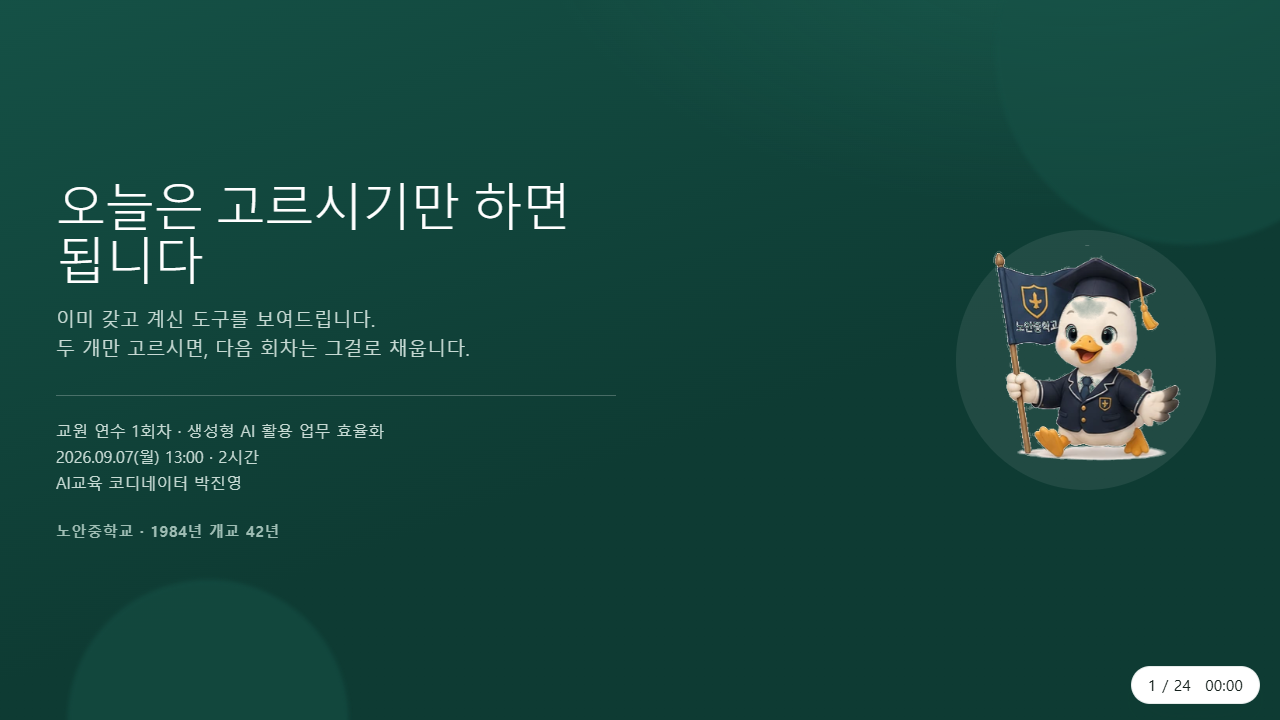
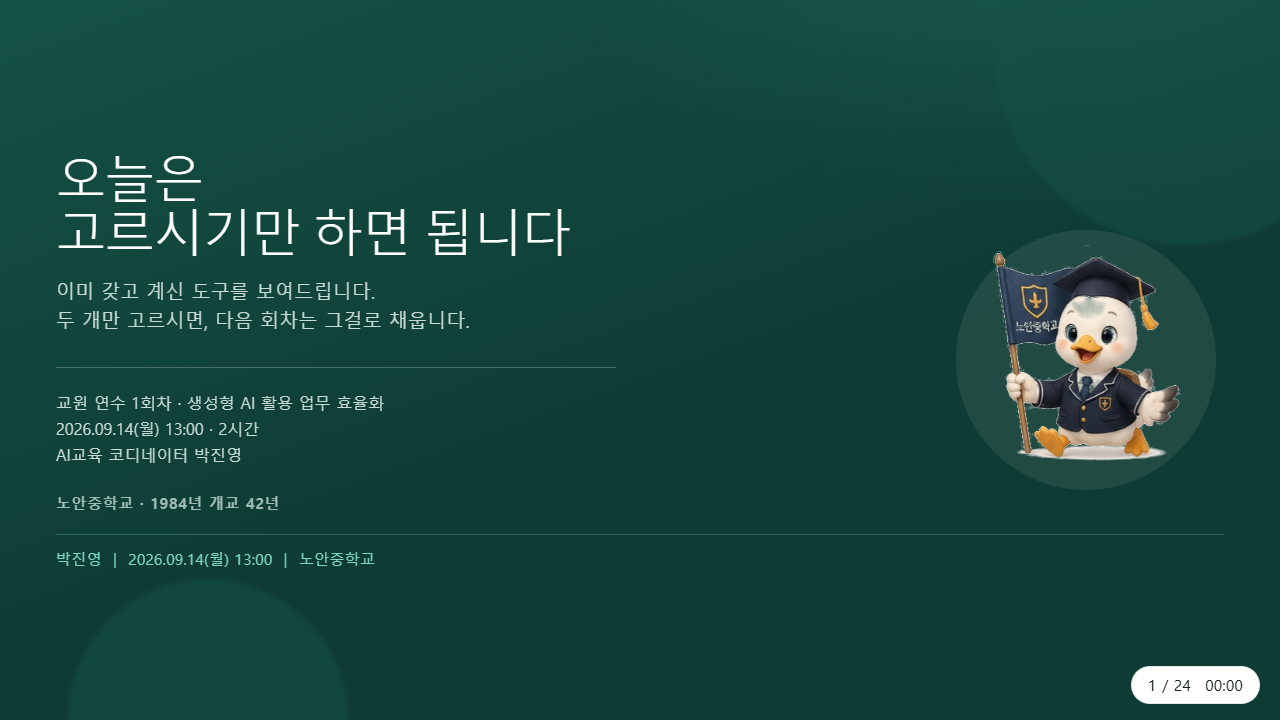
fix: 1회차 일정 9/14 정정, 표지 띠 복원, 덱 줄바꿈 손질
연수가 9/14(월) 로 밀렸다. 날짜를 원작자 승인으로 여덟 곳 고쳤다.
  2026.09.07(월) -> 2026.09.14(월)   s1.html · copy-s1-a.txt
  9/7(월)        -> 9/14(월)         training/index.html · index.html
  수(9/9)·목(9/10) -> 수(9/16)·목(9/17)  s1.html · copy-s1-b.txt (다음 주 같은 요일)
랜딩의 「노트북 지참」은 뺐다 — 노트북 없이도 되게 짠 회차다.

표지 하단 띠 복원 — 「박진영 ｜ 2026.09.14(월) 13:00 ｜ 노안중학교」.
띠는 메타정보라 본문 s-info 와 내용이 겹쳐도 둔다. 다만 자리는 겹치지 않게
표지 아래에 띠 높이만큼 비웠다.

덱 손질 넷:
- s1 제목을 「오늘은 / 고르시기만 하면 됩니다」 로 (br 위치만, 글자 그대로)
- s2 노아리를 더 내려 세 번째 카드 모서리를 물지 않게
- s10 클래스이음 카드에서 가운뎃점이 줄머리로 내려가지 않게 묶었다
- 우상단 뱃지를 assets/logo.png (28px) 로. noari-badge 는 파비콘 몫으로 남긴다

주의 — assets/logo.png 는 아직 저장소에 없다. onerror 로 조용히 빠지므로
지금은 본문 21장의 우상단이 비어 있다. 파일이 들어오면 저절로 뜬다.

24장 전부 1280×720 유지. docs/shots/ 갱신.

Claude-Session: https://claude.ai/code/session_01KhqiYicxGJ95fnz97EidVC

Changed region(s): [[0.0312, 0.2139, 0.4375, 0.5194], [0.0312, 0.55, 0.3125, 0.7944]]

diff --git a/training/s1.html b/training/s1.html
@@ -17,12 +17,13 @@
   <div class="orb orb-b"></div>
   <div class="cover-figure"><picture><source srcset="../assets/noari/noari-flag.webp" type="image/webp"><img class="noari" src="../assets/noari/noari-flag.png" alt="노안중학교 마스코트 노아리" width="240" height="240" loading="lazy" onerror="this.closest('.cover-figure').remove()"></picture></div>
   <div class="slide-inner cover">
-    <h1 class="s-title">오늘은 고르시기만 하면 됩니다</h1>
+    <h1 class="s-title">오늘은<br>고르시기만 하면 됩니다</h1>
     <p class="s-sub">이미 갖고 계신 도구를 보여드립니다.<br>두 개만 고르시면, 다음 회차는 그걸로 채웁니다.</p>
     <hr class="cover-rule">
     <p class="s-info">교원 연수 1회차 · 생성형 AI 활용 업무 효율화</p>
-    <p class="s-info">2026.09.07(월) 13:00 · 2시간</p>
+    <p class="s-info">2026.09.14(월) 13:00 · 2시간</p>
     <p class="s-info">AI교육 코디네이터 박진영</p>
+    <p class="cover-band">박진영 ｜ 2026.09.14(월) 13:00 ｜ 노안중학교</p>
     <p class="school-line is-foot">노안중학교 · 1984년 개교 42년</p>
   </div>
   <aside class="notes">
@@ -34,7 +35,7 @@
 <section class="slide" id="s2" data-t="1" data-title="오늘 가져가실 것 셋">
   <div class="slide-inner">
     <div class="part-mark"><span>PART</span><b>01</b></div>
-    <img class="s-logo" src="../assets/noari/noari-badge.webp" alt="노안중학교" width="120" height="120" loading="lazy" onerror="this.remove()">
+    <img class="s-logo" src="../assets/logo.png" alt="노안중학교" width="120" height="120" loading="lazy" onerror="this.remove()">
     <h2 class="s-title">오늘 끝나면 이 셋을 가져가십니다</h2>
     <div class="cards cols-3">
       <div class="card3d">
@@ -64,7 +65,7 @@
 <section class="slide" id="s9b" data-t="3" data-title="지금 어디쯤이신가요">
   <div class="slide-inner">
     <div class="part-mark"><span>PART</span><b>01</b></div>
-    <img class="s-logo" src="../assets/noari/noari-badge.webp" alt="노안중학교" width="120" height="120" loading="lazy" onerror="this.remove()">
+    <img class="s-logo" src="../assets/logo.png" alt="노안중학교" width="120" height="120" loading="lazy" onerror="this.remove()">
     <h2 class="s-title">지금 어디쯤이신가요</h2>
     <p class="s-lead">오늘 어디서 출발하시는지만 알면 됩니다. 정답은 없습니다.</p>
     <div class="cards cols-3">
@@ -93,7 +94,7 @@
 <section class="slide" id="s3" data-t="4" data-title="30초만 제 소개를">
   <div class="slide-inner">
     <div class="part-mark"><span>PART</span><b>01</b></div>
-    <img class="s-logo" src="../assets/noari/noari-badge.webp" alt="노안중학교" width="120" height="120" loading="lazy" onerror="this.remove()">
+    <img class="s-logo" src="../assets/logo.png" alt="노안중학교" width="120" height="120" loading="lazy" onerror="this.remove()">
     <h2 class="s-title">30초만 제 소개를 하겠습니다</h2>
     <ul class="plain intro-lines">
       <li>동신대학교 컴퓨터공학과, 나주에 삽니다.</li>
@@ -116,7 +117,7 @@
 <section class="slide tone-cream" id="s6" data-t="5" data-title="AI 현 위치 ① 뭐가 달라졌나">
   <div class="slide-inner">
     <div class="part-mark"><span>PART</span><b>02</b></div>
-    <img class="s-logo" src="../assets/noari/noari-badge.webp" alt="노안중학교" width="120" height="120" loading="lazy" onerror="this.remove()">
+    <img class="s-logo" src="../assets/logo.png" alt="노안중학교" width="120" height="120" loading="lazy" onerror="this.remove()">
     <p class="eyebrow">AI 현 위치 ① — 2026년 9월, 뭐가 달라졌나</p>
     <h2 class="s-title">2년 사이에 세 가지가 바뀌었습니다</h2>
     <div class="cards cols-3">
@@ -146,7 +147,7 @@
 <section class="slide tone-cream" id="s7" data-t="7" data-title="AI 현 위치 ② 셋 다 비슷합니다">
   <div class="slide-inner">
     <div class="part-mark"><span>PART</span><b>02</b></div>
-    <img class="s-logo" src="../assets/noari/noari-badge.webp" alt="노안중학교" width="120" height="120" loading="lazy" onerror="this.remove()">
+    <img class="s-logo" src="../assets/logo.png" alt="노안중학교" width="120" height="120" loading="lazy" onerror="this.remove()">
     <p class="eyebrow">AI 현 위치 ② — 셋 다 비슷합니다</p>
     <h2 class="s-title">ChatGPT · Gemini · Claude — 어느 게 제일 좋나요?</h2>
     <div class="tw">
@@ -185,7 +186,7 @@
 <section class="slide tone-cream" id="s8" data-t="9" data-title="AI 현 위치 ③ 학교 쪽 사정">
   <div class="slide-inner">
     <div class="part-mark"><span>PART</span><b>02</b></div>
-    <img class="s-logo" src="../assets/noari/noari-badge.webp" alt="노안중학교" width="120" height="120" loading="lazy" onerror="this.remove()">
+    <img class="s-logo" src="../assets/logo.png" alt="노안중학교" width="120" height="120" loading="lazy" onerror="this.remove()">
     <p class="eyebrow">AI 현 위치 ③</p>
     <h2 class="s-title">학교 쪽 사정</h2>
     <div class="cards cols-3">
@@ -210,7 +211,7 @@
   <section class="slide slide-map tone-cream" id="s9" data-t="11" data-title="AI 전체 지도">
     <div class="slide-inner">
     <div class="part-mark"><span>PART</span><b>02</b></div>
-    <img class="s-logo" src="../assets/noari/noari-badge.webp" alt="노안중학교" width="120" height="120" loading="lazy" onerror="this.remove()">
+    <img class="s-logo" src="../assets/logo.png" alt="노안중학교" width="120" height="120" loading="lazy" onerror="this.remove()">
       <svg class="aimap" viewBox="0 0 1200 760" data-zoom="0" role="img" aria-label="AI 도구 전체 지도" preserveAspectRatio="xMidYMid meet">
         <g class="zoomer">
           <g class="cat" data-cat="대화·글쓰기">
@@ -449,7 +450,7 @@
 <section class="slide" id="s10" data-t="16" data-title="이미 갖고 계신 것">
   <div class="slide-inner">
     <div class="part-mark"><span>PART</span><b>03</b></div>
-    <img class="s-logo" src="../assets/noari/noari-badge.webp" alt="노안중학교" width="120" height="120" loading="lazy" onerror="this.remove()">
+    <img class="s-logo" src="../assets/logo.png" alt="노안중학교" width="120" height="120" loading="lazy" onerror="this.remove()">
     <h2 class="s-title">이미 갖고 계신 것</h2>
     <p class="s-lead">새 도구를 배우시는 게 아닙니다. <strong>전남교육청이 이미 드린 것</strong>을 제대로 쓰는 겁니다.</p>
     <div class="cards cols-3">
@@ -466,7 +467,7 @@
       <div class="card3d gold">
         <span class="num">3</span>
         <p class="card-title">클래스이음</p>
-        <p class="card-lede">Microsoft 365. 웹 오피스·OneDrive·Teams · o365.jne.go.kr</p>
+        <p class="card-lede">Microsoft 365. <span class="nb">웹 오피스·OneDrive·Teams</span>&nbsp;· o365.jne.go.kr</p>
       </div>
     </div>
     <p class="s-foot">결제도, 계정 신설도, 승인 절차도 필요 없습니다. 오늘 끝나고 바로 쓰실 수 있습니다.</p>
@@ -481,7 +482,7 @@
 <section class="slide" id="s11" data-t="18" data-title="오늘 볼 것 — 다섯 장면">
   <div class="slide-inner">
     <div class="part-mark"><span>PART</span><b>03</b></div>
-    <img class="s-logo" src="../assets/noari/noari-badge.webp" alt="노안중학교" width="120" height="120" loading="lazy" onerror="this.remove()">
+    <img class="s-logo" src="../assets/logo.png" alt="노안중학교" width="120" height="120" loading="lazy" onerror="this.remove()">
     <h2 class="s-title">오늘 볼 것 — 다섯 장면</h2>
     <div class="tw">
       <table>
@@ -532,7 +533,7 @@
 <section class="slide" id="s11b" data-t="19" data-title="다음 회차는 나눕니다">
   <div class="slide-inner">
     <div class="part-mark"><span>PART</span><b>03</b></div>
-    <img class="s-logo" src="../assets/noari/noari-badge.webp" alt="노안중학교" width="120" height="120" loading="lazy" onerror="this.remove()">
+    <img class="s-logo" src="../assets/logo.png" alt="노안중학교" width="120" height="120" loading="lazy" onerror="this.remove()">
     <h2 class="s-title">다음 회차부터는 두 갈래로 나눕니다</h2>
     <p class="s-lead">오늘은 다 같이 봅니다. 다음부터는 필요하신 쪽만 오시면 됩니다.</p>
     <div class="cards cols-2">
@@ -556,7 +557,7 @@
 <section class="slide tone-mint" id="s12" data-t="21" data-title="장면 01 가정통신문">
   <div class="slide-inner">
     <div class="part-mark"><span>PART</span><b>04</b></div>
-    <img class="s-logo" src="../assets/noari/noari-badge.webp" alt="노안중학교" width="120" height="120" loading="lazy" onerror="this.remove()">
+    <img class="s-logo" src="../assets/logo.png" alt="노안중학교" width="120" height="120" loading="lazy" onerror="this.remove()">
     <p class="eyebrow">장면 01</p>
     <h2 class="s-title">가정통신문 만들어서 결재까지</h2>
     <div class="scene">
@@ -591,7 +592,7 @@
 <section class="slide tone-mint" id="s13" data-t="25" data-title="장면 02 팜플렛">
   <div class="slide-inner">
     <div class="part-mark"><span>PART</span><b>04</b></div>
-    <img class="s-logo" src="../assets/noari/noari-badge.webp" alt="노안중학교" width="120" height="120" loading="lazy" onerror="this.remove()">
+    <img class="s-logo" src="../assets/logo.png" alt="노안중학교" width="120" height="120" loading="lazy" onerror="this.remove()">
     <p class="eyebrow">장면 02</p>
     <h2 class="s-title">팜플렛·리플릿, 디자인 왕복 없이</h2>
     <div class="scene accent-warm">
@@ -626,7 +627,7 @@
 <section class="slide tone-mint" id="s14" data-t="30" data-title="장면 03 발표자료">
   <div class="slide-inner">
     <div class="part-mark"><span>PART</span><b>04</b></div>
-    <img class="s-logo" src="../assets/noari/noari-badge.webp" alt="노안중학교" width="120" height="120" loading="lazy" onerror="this.remove()">
+    <img class="s-logo" src="../assets/logo.png" alt="노안중학교" width="120" height="120" loading="lazy" onerror="this.remove()">
     <p class="eyebrow">장면 03</p>
     <h2 class="s-title">수업 발표자료 만들 때</h2>
     <div class="scene">
@@ -661,7 +662,7 @@
 <section class="slide tone-mint" id="s15" data-t="34" data-title="장면 04 긴 공문">
   <div class="slide-inner">
     <div class="part-mark"><span>PART</span><b>04</b></div>
-    <img class="s-logo" src="../assets/noari/noari-badge.webp" alt="노안중학교" width="120" height="120" loading="lazy" onerror="this.remove()">
+    <img class="s-logo" src="../assets/logo.png" alt="노안중학교" width="120" height="120" loading="lazy" onerror="this.remove()">
     <p class="eyebrow">장면 04</p>
     <h2 class="s-title">긴 공문을 읽어야 할 때</h2>
     <div class="scene accent-warm">
@@ -696,7 +697,7 @@
 <section class="slide tone-mint" id="s16" data-t="38" data-title="장면 05 회의·상담">
   <div class="slide-inner">
     <div class="part-mark"><span>PART</span><b>04</b></div>
-    <img class="s-logo" src="../assets/noari/noari-badge.webp" alt="노안중학교" width="120" height="120" loading="lazy" onerror="this.remove()">
+    <img class="s-logo" src="../assets/logo.png" alt="노안중학교" width="120" height="120" loading="lazy" onerror="this.remove()">
     <p class="eyebrow">장면 05</p>
     <h2 class="s-title">회의·상담을 기록할 때</h2>
     <div class="scene">
@@ -731,7 +732,7 @@
 <section class="slide" id="s17" data-t="44" data-title="우리 학교에 있는 것">
   <div class="slide-inner">
     <div class="part-mark"><span>PART</span><b>05</b></div>
-    <img class="s-logo" src="../assets/noari/noari-badge.webp" alt="노안중학교" width="120" height="120" loading="lazy" onerror="this.remove()">
+    <img class="s-logo" src="../assets/logo.png" alt="노안중학교" width="120" height="120" loading="lazy" onerror="this.remove()">
     <h2 class="s-title">우리 학교에 있는 것</h2>
     <p class="s-sub">이걸로 뭘 할 수 있나</p>
     <div class="cards cols-4">
@@ -767,7 +768,7 @@
 <section class="slide" id="s18" data-t="47" data-title="학생 도구는 다음에">
   <div class="slide-inner">
     <div class="part-mark"><span>PART</span><b>05</b></div>
-    <img class="s-logo" src="../assets/noari/noari-badge.webp" alt="노안중학교" width="120" height="120" loading="lazy" onerror="this.remove()">
+    <img class="s-logo" src="../assets/logo.png" alt="노안중학교" width="120" height="120" loading="lazy" onerror="this.remove()">
     <h2 class="s-title">학생과 함께 쓰는 도구는 다음에</h2>
     <div class="cards cols-3">
       <div class="card3d">
@@ -799,7 +800,7 @@
 <section class="slide" id="s19" data-t="50" data-title="코디네이터가 하는 일">
   <div class="slide-inner">
     <div class="part-mark"><span>PART</span><b>05</b></div>
-    <img class="s-logo" src="../assets/noari/noari-badge.webp" alt="노안중학교" width="120" height="120" loading="lazy" onerror="this.remove()">
+    <img class="s-logo" src="../assets/logo.png" alt="노안중학교" width="120" height="120" loading="lazy" onerror="this.remove()">
     <h2 class="s-title">코디네이터가 하는 일</h2>
     <div class="cards cols-2">
       <div>
@@ -828,7 +829,7 @@
 <section class="slide" id="s20" data-t="53" data-title="두 개만 골라주세요">
   <div class="slide-inner">
     <div class="part-mark"><span>PART</span><b>05</b></div>
-    <img class="s-logo" src="../assets/noari/noari-badge.webp" alt="노안중학교" width="120" height="120" loading="lazy" onerror="this.remove()">
+    <img class="s-logo" src="../assets/logo.png" alt="노안중학교" width="120" height="120" loading="lazy" onerror="this.remove()">
     <h2 class="s-title">두 개만 골라주세요</h2>
     <p class="s-lead">다음 회차부터 무엇을 할지, 제가 정하지 않고 선생님들이 정하십니다.</p>
     <div class="cards">
@@ -866,7 +867,7 @@
 <section class="slide tone-cream" id="s22" data-t="63" data-title="2부 라이브 요청 처리">
   <div class="slide-inner">
     <div class="part-mark"><span>PART</span><b>06</b></div>
-    <img class="s-logo" src="../assets/noari/noari-badge.webp" alt="노안중학교" width="120" height="120" loading="lazy" onerror="this.remove()">
+    <img class="s-logo" src="../assets/logo.png" alt="노안중학교" width="120" height="120" loading="lazy" onerror="this.remove()">
     <p class="eyebrow">2부 · 30분</p>
     <h2 class="s-title">지금 하나 만들어 드리겠습니다</h2>
     <p class="s-lead">선생님 업무 하나만 말씀해 주세요. <strong>지금 이 자리에서 만들어 보이겠습니다.</strong></p>
@@ -899,7 +900,7 @@
 <section class="slide" id="s23" data-t="100" data-title="규칙 하나">
   <div class="slide-inner">
     <div class="part-mark"><span>PART</span><b>06</b></div>
-    <img class="s-logo" src="../assets/noari/noari-badge.webp" alt="노안중학교" width="120" height="120" loading="lazy" onerror="this.remove()">
+    <img class="s-logo" src="../assets/logo.png" alt="노안중학교" width="120" height="120" loading="lazy" onerror="this.remove()">
     <h2 class="s-title">매 시간 반복할 규칙 하나</h2>
     <div class="cards">
       <div class="card3d warm">
@@ -941,8 +942,8 @@
         <div class="tw">
           <table>
             <tbody>
-              <tr><th scope="row">수(9/9)</th><td>투표 결과 집계해서 교무실 게시</td></tr>
-              <tr><th scope="row">목(9/10)</th><td>오늘 받은 요청 처리·전달</td></tr>
+              <tr><th scope="row">수(9/16)</th><td>투표 결과 집계해서 교무실 게시</td></tr>
+              <tr><th scope="row">목(9/17)</th><td>오늘 받은 요청 처리·전달</td></tr>
               <tr><th scope="row">다음 월</th><td>2회차</td></tr>
             </tbody>
           </table>

diff --git a/shared/deck.css b/shared/deck.css
@@ -1442,7 +1442,7 @@ html[data-projector] .aimap .cat-zone{
   top:4px;
   right:0;
   z-index:2;
-  height:32px;
+  height:28px;
   width:auto;
 }
 .slide-inner:has(> .part-mark) > .s-title{
@@ -1570,4 +1570,37 @@ html[data-projector] .aimap .cat-zone{
 }
 .slide .illust.is-end img{
   height:150px;
+}
+
+/* ---------- 표지 하단 띠 (템플릿 p1) ----------
+   강사 · 일시 · 장소. 본문 s-info 와 내용이 겹쳐 보여도 둔다 — 띠는 메타정보다.
+   다만 자리는 겹치면 안 된다. 표지 아래에 띠 높이만큼 비워둔다. */
+.slide-inner.cover:has(> .cover-band){
+  padding-bottom:56px;
+}
+.slide .cover-band{
+  position:absolute;
+  left:0;
+  right:0;
+  bottom:0;
+  margin:0;
+  padding:14px 0 0;
+  border-top:1px solid rgba(127,214,194,.28);
+  font-size:15px;
+  letter-spacing:.02em;
+  color:var(--mint2);
+}
+
+/* 목차 장의 노아리가 세 번째 카드 모서리를 물지 않게 오른쪽 아래로 더 내린다 */
+#s2 .illust{
+  right:20px;
+  bottom:16px;
+}
+#s2 .illust img{
+  height:158px;
+}
+
+/* 가운뎃점이 줄머리로 내려가지 않게 묶는 조각 */
+.nb{
+  white-space:nowrap;
 }

diff --git a/training/index.html b/training/index.html
@@ -37,7 +37,7 @@
     <h2 class="section-title">회차</h2>
     <div class="grid cols-4">
       <a class="card tilt" href="s1.html">
-        <span class="badge">1회차 · 9/7(월)</span>
+        <span class="badge">1회차 · 9/14(월)</span>
         <h3 class="card-title">생성형 AI, 이미 갖고 계신 것부터</h3>
         <p class="card-lede">13:00 · 2시간 · 노트북 지참. 다섯 장면과 2부 라이브 요청 처리.</p>
         <span class="btn btn-primary">덱 열기</span>

diff --git a/index.html b/index.html
@@ -52,7 +52,7 @@
     <a class="card tilt" href="training/s1.html">
       <span class="badge">1회차</span>
       <h3 class="card-title">생성형 AI, 이미 갖고 계신 것부터</h3>
-      <p class="card-lede">9/7(월) 13:00 · 2시간 · 노트북 지참</p>
+      <p class="card-lede">9/14(월) 13:00 · 2시간</p>
       <span class="btn btn-primary">덱 열기</span>
     </a>
   </div>
